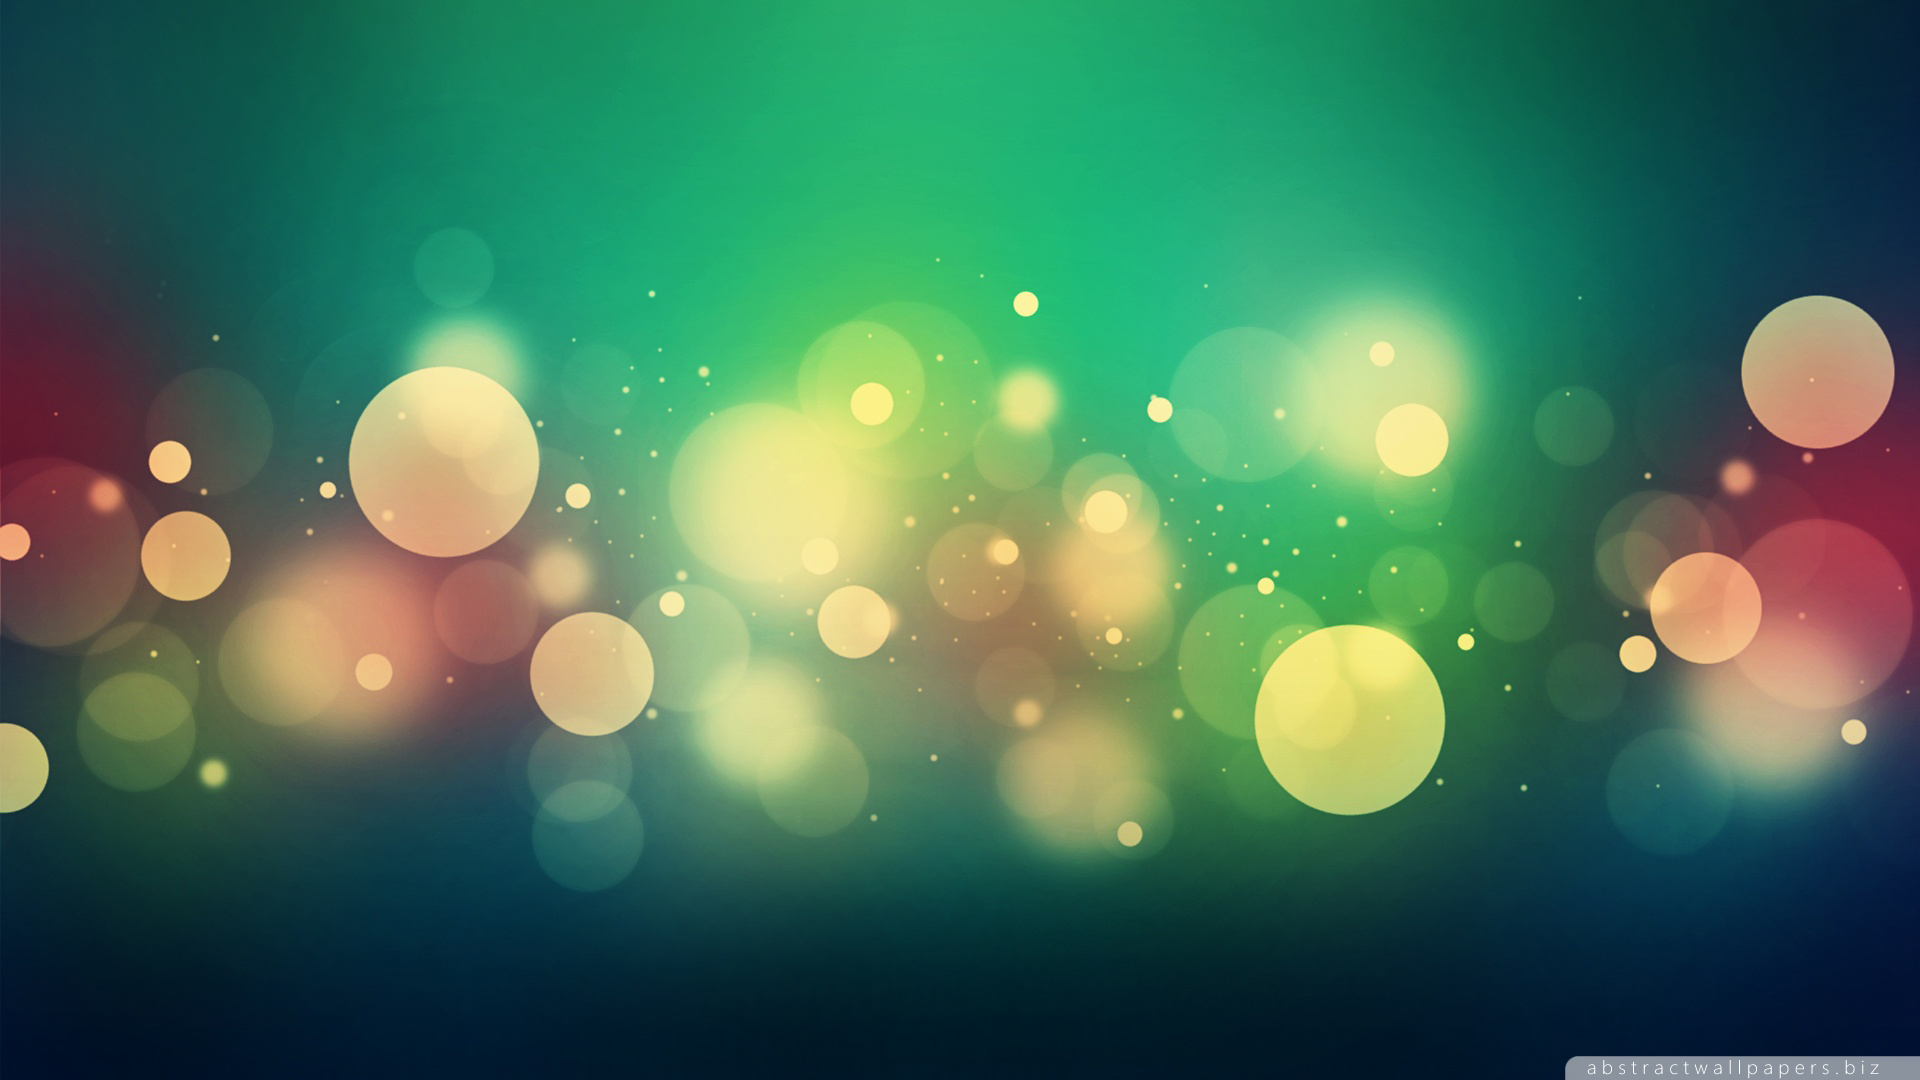
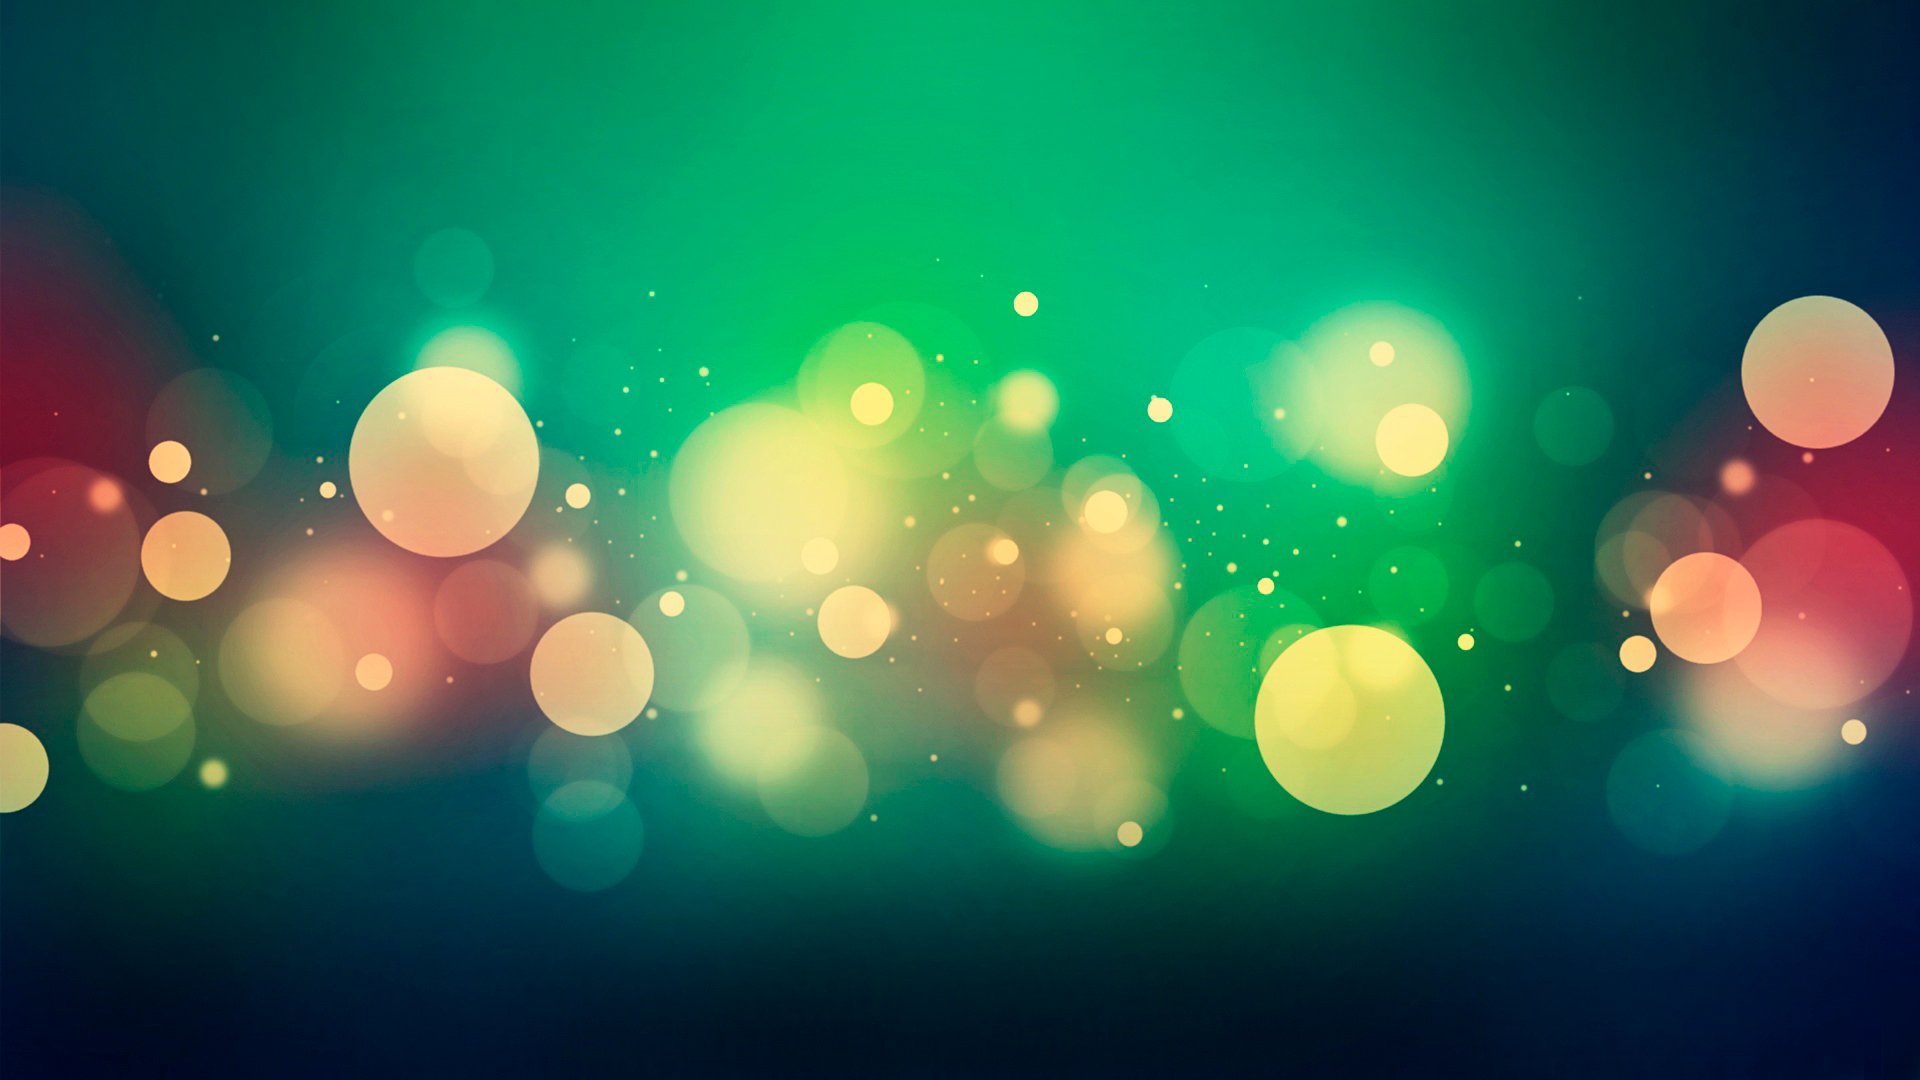
MKFM ver.3.2.1

diff --git a/public/css/radios.css b/public/css/radios.css
@@ -1158,7 +1158,10 @@
 #minkiyal {
     position: relative;
     font-family: 'Roboto Condensed';
-    background: #009688;
+    background: url('../images/channels/minkiyal/main2.jpg');
+    background-size: cover;
+    background-attachment: fixed;
+    background-position: center center;
 }
 #minkiyal .switch{
     background:#FEFEFE;
@@ -1175,7 +1178,7 @@
 }
 #minkiyal .main {
     position: relative;
-    margin-top:-70px; 
+    margin-top: -70px;
 }
 #minkiyal .main .innerfix{
     position: fixed;
@@ -1188,7 +1191,6 @@
     position: relative;
     margin-top: -30px;
     border-radius: 5px !important;
-    background: #fff;
     -webkit-box-shadow: 0px 0px 15px 3px rgba(0,0,0,0.17);
     -moz-box-shadow: 0px 0px 15px 3px rgba(0,0,0,0.17);
     box-shadow: 0px 0px 15px 3px rgba(0,0,0,0.17);
@@ -1367,23 +1369,30 @@
 #minkiyal .mingallery .allreport i{
     padding-left: 5px;
 }
-#minkiyal .contacts {
-    padding: 40px 0px;
+
+#minkiyal .infobar .contacts {
+    position: relative;
+    -webkit-box-shadow: 0px 0px 15px 3px rgba(0,0,0,0.17);
+    -moz-box-shadow: 0px 0px 15px 3px rgba(0,0,0,0.17);
+    box-shadow: 0px 0px 15px 3px rgba(0,0,0,0.17);
+    border-radius: 5px !important;
 }
 #minkiyal .xcontact {
     text-align: center;
 }
 #minkiyal .xcontact h2{
-    padding: 30px 0px; 
+    padding: 30px 0px;
+    margin: 0px; 
 
     text-align: center;
     font-weight: bold;
     font-size: 3em;
    
-    color: #fff;   
+    color: #06243C;   
 }
 
 #minkiyal .address {
+    margin-bottom: 15px;
     border-radius: 10px 10px 5px 5px !important;
     -webkit-border-radius: 10px 10px 5px 5px !important;
     -moz-border-radius: 10px 10px 5px 5px !important;
@@ -1436,7 +1445,8 @@
 }
 
 #minkiyal .slidermin .shows-carousel .slick-slide img{
-    height: 500px;
+    /*height: 500px;*/
+    border-radius: 5px !important;
 }
 #minkiyal .slidermin .slick-slide .overlay{
     background: none;
@@ -1449,27 +1459,26 @@
     color: #fff !important;
 }
 #minkiyal .shows-carousel .slick-slide {
-    height: 510px;
+    /*height: 510px;*/
+    padding:20px 0px; 
 }
 #minkiyal .copyright,#minkiyal .footer-menu{
     color: #ffffff;
     font-size: 16px;
 }
 #minkiyal .middleblock{
-    margin-top: -90px;
     background: #fff;
 }
 #minkiyal .infobar{
-    margin-top: -70px;
-    background: #009688;
+    padding:40px 0px; 
 }
 #minkiyal .prefooter {
     border: none;
-    background: #1D6486;
+    background: none;
     border-radius: 5px 5px 0px 0px !important;
 }
 #minkiyal .prefooter .footer-info{
-    background: #1D6486;
+    background: none;
     border-radius: 5px 5px 0px 0px !important;
 }
 .minkiyal_nav{

diff --git a/app/Acme/Http/Front/Views/channel/minkiyal/index.blade.php b/app/Acme/Http/Front/Views/channel/minkiyal/index.blade.php
@@ -28,27 +28,27 @@
       </div>
     </div>
   </div>
-  <div class="container-fluid main">
-    <div class="shows-slider slidermin">
-      <div class="slider-overlay"></div>
-      @if($anons->first())
-      <div class="shows-carousel">     
-        @foreach($anons as $row)
-        <div>
-          <div class="overlay"></div>
-          <a href="#">
-            <img src="{{asset($row->thumbnail)}}" alt=""/>
-          </a>
+  <div class="container">
+    <div class="row">
+      <div class="shows-slider slidermin">
+        <div class="slider-overlay"></div>
+        @if($anons->first())
+        <div class="shows-carousel">     
+          @foreach($anons as $row)
+          <div>
+            <div class="overlay"></div>
+            <a href="#">
+              <img src="{{asset($row->thumbnail)}}" alt=""/>
+            </a>
+          </div>
+          @endforeach
         </div>
-        @endforeach
-      </div>
-      @endif
+        @endif
+      </div> 
     </div>
-
   </div>
 
   <section id="report">
-    <div class="contaner-fluid middleblock">
       <div class="container info">
         <div class="col-md-12">
           <div class="online">
@@ -81,14 +81,11 @@
 
         </div>
       </div>
-    </div>
   </section>
 
   <section id="contacts" >
     <div class="container-fluid infobar">
       <div class="container contacts">
-
-        <div class="row">
           <div class="col-md-12 xcontact">
             <h2>- КТРК  “Миң Кыял FM” радиосу -</h2>
           </div>
@@ -113,9 +110,6 @@
               <li><i class="fa fa-facebook-official"></i> www.facebook.com/MinKyalFm</li>
             </ul>
           </div>
-        </div>
-
-
       </div>
     </div>
   </section><!--/#services-->

diff --git a/app/Acme/Http/Front/Views/channel/birinchi/index.blade.php b/app/Acme/Http/Front/Views/channel/birinchi/index.blade.php
@@ -194,8 +194,8 @@
                 <div class="col-md-12 birinchigallery">
                     <div class="row">
                         <div class="col-md-12">
-                            <h3 class="title">{{ trans('radiopages.Photos') }}</h3>
-                            <h3 class="titleshowsright"><a href="{{ route('birinchi.allphotos') }}">{{ trans('radiopages.Allphotos') }}<i class="fa fa-arrow-right"></i></a></h3>
+                            <h3 class="title">{{ trans('radiopages.PhotoReports') }}</h3>
+                            <h3 class="titleshowsright"><a href="{{ route('birinchi.allphotos') }}">{{ trans('radiopages.AllPhotoReports') }}<i class="fa fa-arrow-right"></i></a></h3>
                         </div>
                         @if($photoGalleries)
                             @foreach($photoGalleries as $photoGallery)

diff --git a/app/Acme/Http/Front/Views/channel/minkiyal/post.blade.php b/app/Acme/Http/Front/Views/channel/minkiyal/post.blade.php
@@ -41,7 +41,7 @@
     </div>
   </div>
   <div class="container-fluid main">
-     <img src="{{ asset('images/channels/minkiyal/main.png')}}" alt="" class="img-responsive innerfix">
+     <img src="{{ asset('images/channels/minkiyal/main2.jpg')}}" alt="" class="img-responsive innerfix">
   </div>
     <div class="container mingallery">
       <div class="col-md-12">

diff --git a/resources/lang/kg/radiopages.php b/resources/lang/kg/radiopages.php
@@ -14,7 +14,8 @@ return [
 		'Phone' => 'Студиянын телефону',
 		'Volna' => '106.9 жыштыгында',
 		'RelatedNews' => 'Байланышкан жаңылыктар',
-		'' => '',
+		'PhotoReports' => 'Сүрөт баяндар',
+		'AllPhotoReports' => 'Баардык сүрөт баяндар',
 
 		//Header 
 		'Live' => 'Түз эфир',

diff --git a/resources/lang/ru/radiopages.php b/resources/lang/ru/radiopages.php
@@ -14,7 +14,8 @@ return [
 		'Phone' => 'Телефон студии:',
 		'Volna' => 'На волне 106.9',
 		'RelatedNews' => 'Связанные новости',
-		'' => '',
+		'PhotoReports' => 'Фоторепортажи',
+		'AllPhotoReports' => 'Все фоторепортажи',
 		'' => '',
 
 
